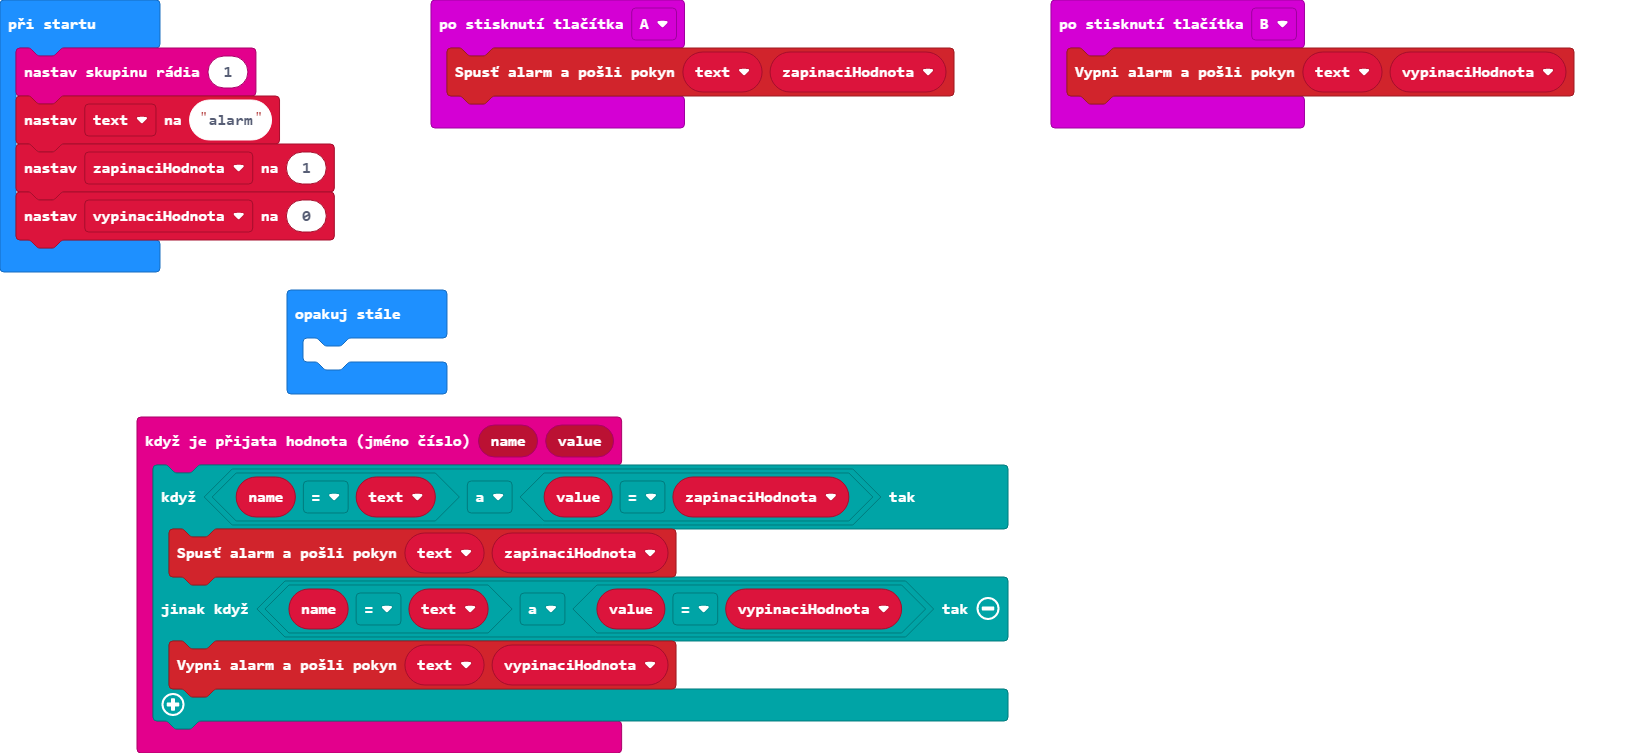
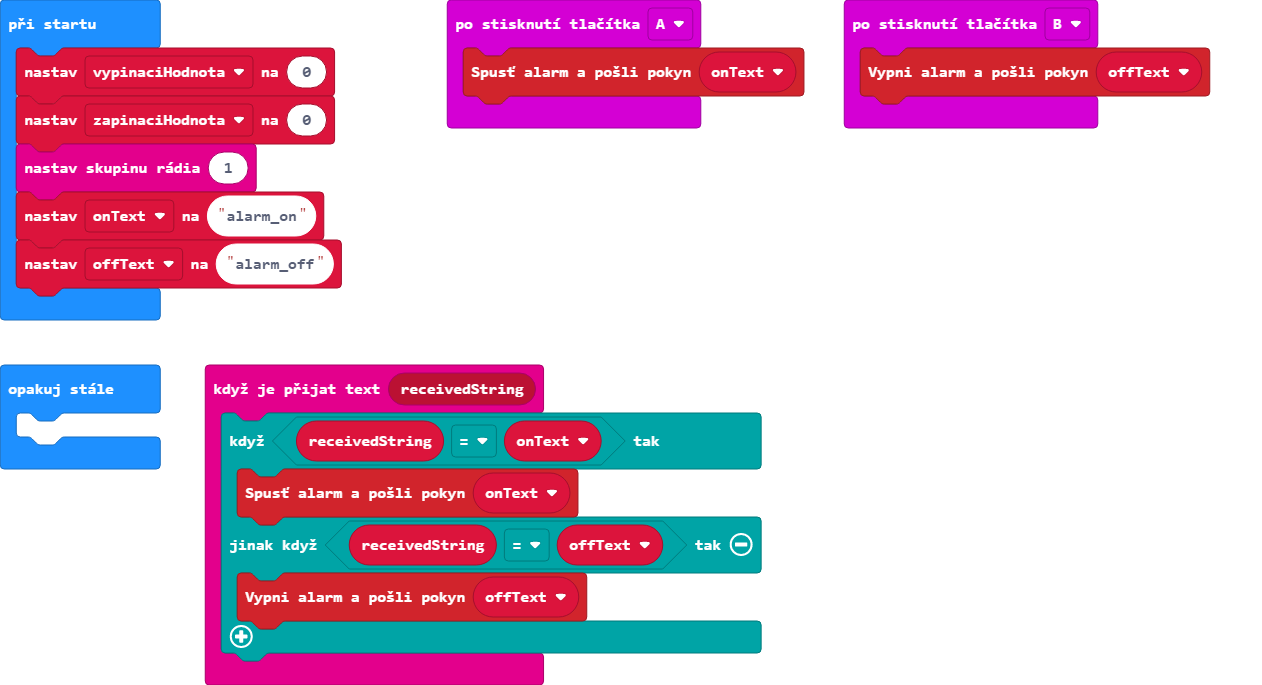
Aktualizovat pxt.json, main.blocks, main.ts, alarm.ts

diff --git a/alarm.ts b/alarm.ts
@@ -26,11 +26,11 @@ namespace Alarm {
     /**
     * Spustí alarm a pošle všem zařízením v okolí pokyn ke spuštění alarmu
     */
-    //% block="Spusť alarm a pošli pokyn %text %onvalue"
+    //% block="Spusť alarm a pošli pokyn %text"
 
-    export function SpustitAlarmAOdesli(text: string, onvalue: number): void {
+    export function SpustitAlarmAOdesli(text: string): void {
         if(alarm == false) {
-            radio.sendValue(text, onvalue)
+            radio.sendString(text)
         }
         alarm = true
         basic.showLeds(`
@@ -45,11 +45,11 @@ namespace Alarm {
     /**
     * Vypne alarm a pošle všem zařízením v okolí pokyn k vypnutí alarmu
     */
-    //% block="Vypni alarm a pošli pokyn %text %offvalue"
+    //% block="Vypni alarm a pošli pokyn %text"
 
-    export function VypnoutAlarmAOdesli(text: string, offvalue: number): void {
+    export function VypnoutAlarmAOdesli(text: string): void {
         if(alarm == true) {
-            radio.sendValue(text, offvalue)
+            radio.sendString(text)
         }
         alarm = false
         basic.showLeds(`

diff --git a/main.ts b/main.ts
@@ -1,23 +1,23 @@
 input.onButtonPressed(Button.A, function () {
-    Alarm.SpustitAlarmAOdesli(text, zapinaciHodnota)
+    Alarm.SpustitAlarmAOdesli(onText)
 })
-input.onButtonPressed(Button.B, function () {
-    Alarm.VypnoutAlarmAOdesli(text, vypinaciHodnota)
-})
-radio.onReceivedValue(function (name, value) {
-    if (name == text && value == zapinaciHodnota) {
-        Alarm.SpustitAlarmAOdesli(text, zapinaciHodnota)
-    } else if (name == text && value == vypinaciHodnota) {
-        Alarm.VypnoutAlarmAOdesli(text, vypinaciHodnota)
+radio.onReceivedString(function (receivedString) {
+    if (receivedString == onText) {
+        Alarm.SpustitAlarmAOdesli(onText)
+    } else if (receivedString == offText) {
+        Alarm.VypnoutAlarmAOdesli(offText)
     }
 })
+input.onButtonPressed(Button.B, function () {
+    Alarm.VypnoutAlarmAOdesli(offText)
+})
+let offText = ""
+let onText = ""
 let vypinaciHodnota = 0
 let zapinaciHodnota = 0
-let text = ""
 radio.setGroup(1)
-text = "alarm"
-zapinaciHodnota = 1
-vypinaciHodnota = 0
+onText = "alarm_on"
+offText = "alarm_off"
 basic.forever(function () {
 	
 })
